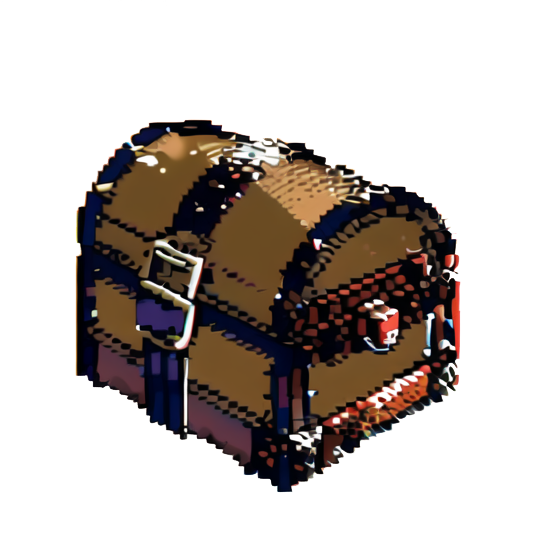
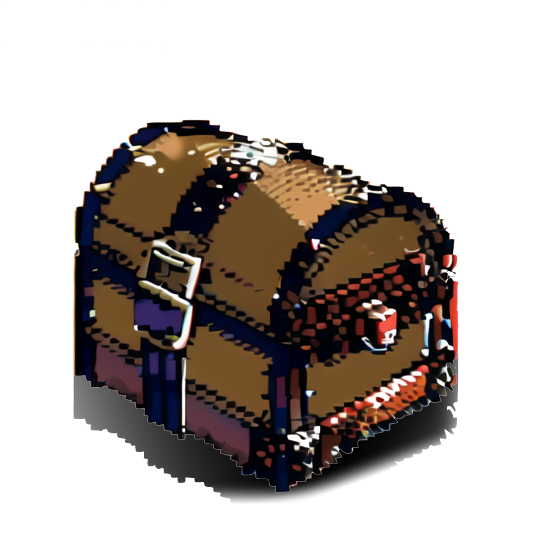
Added the image of hidden chest, a place when clicking on it will fin the chest and its glow method

Changed region(s): [[0.1194, 0.209, 0.8657, 0.9552], [0.4179, 0.5672, 0.5075, 0.6567]]

diff --git a/src/main/java/nz/ac/auckland/se206/controllers/StorageController.java b/src/main/java/nz/ac/auckland/se206/controllers/StorageController.java
@@ -10,10 +10,16 @@ import nz.ac.auckland.se206.SceneManager.AppPanel;
 public class StorageController {
 
   @FXML private Rectangle storageDoor;
+  @FXML private Rectangle hiddenChest;
   @FXML private ImageView storageDoorImage;
+  @FXML private ImageView hiddenChestImage;
 
   public void goInside() {
     App.setUi(AppPanel.MAIN_ROOM);
+  }
+
+  public void findChest() {
+    System.out.println("Find chest");
   }
 
   public void activateDoorGlow() {
@@ -22,5 +28,13 @@ public class StorageController {
 
   public void deactivateDoorGlow() {
     storageDoorImage.setEffect(GameState.glowDim);
+  }
+
+  public void activateHiddenChestGlow() {
+    hiddenChestImage.setEffect(GameState.glowBright);
+  }
+
+  public void deactivateHiddenChestGlow() {
+    hiddenChestImage.setEffect(GameState.glowDim);
   }
 }
